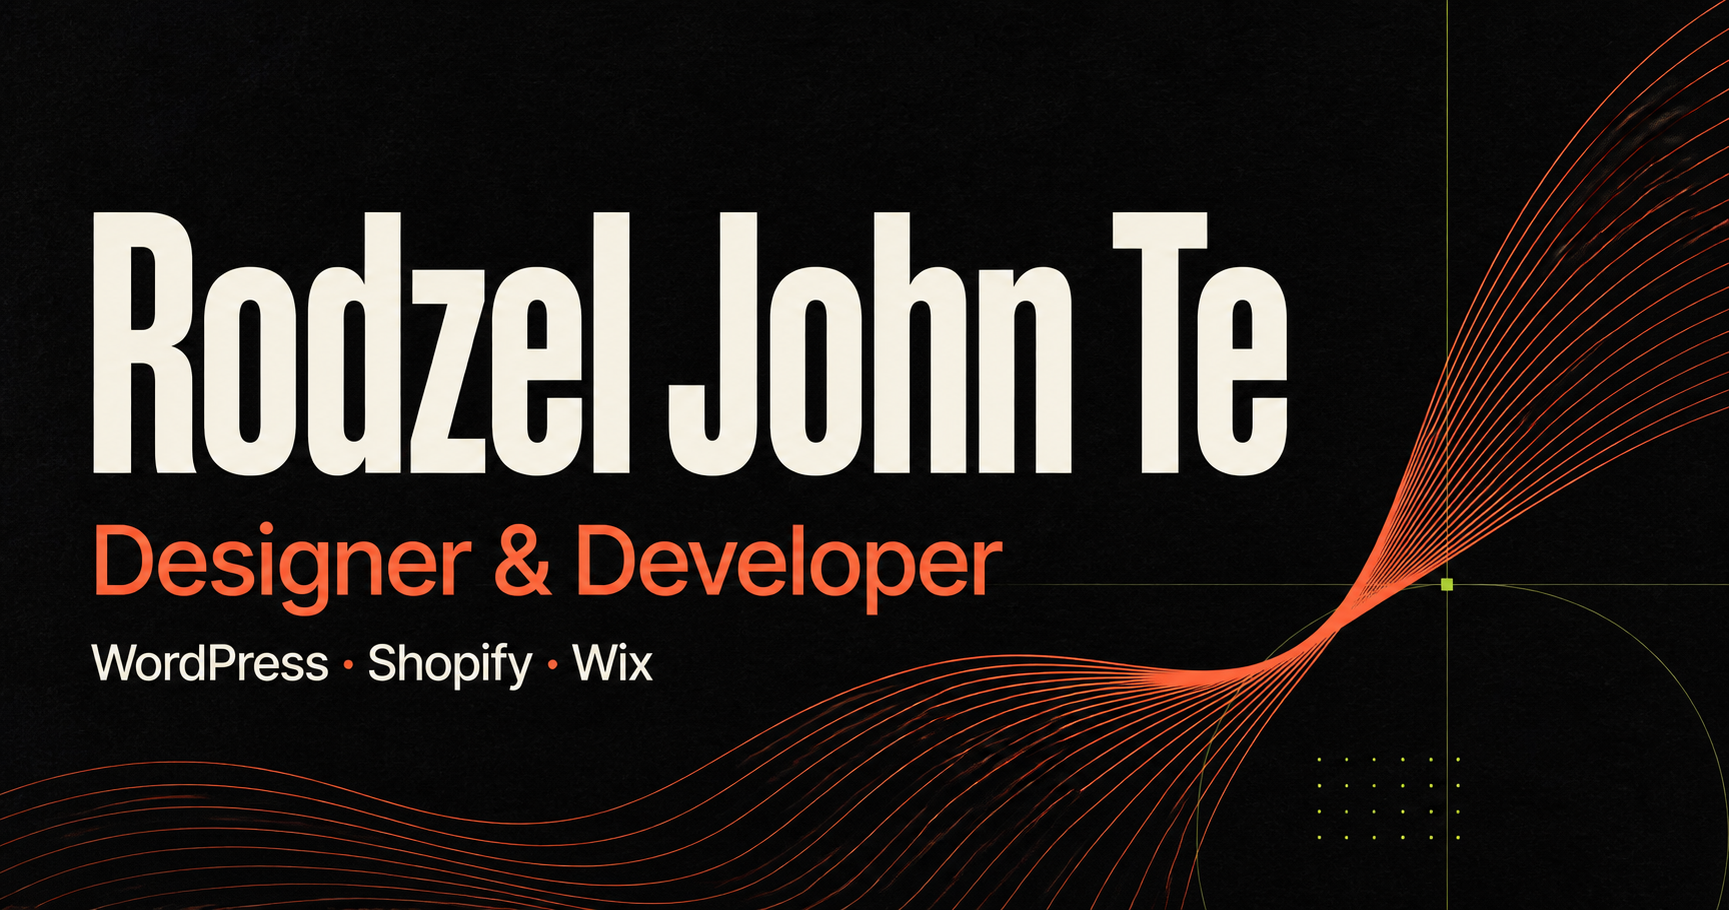
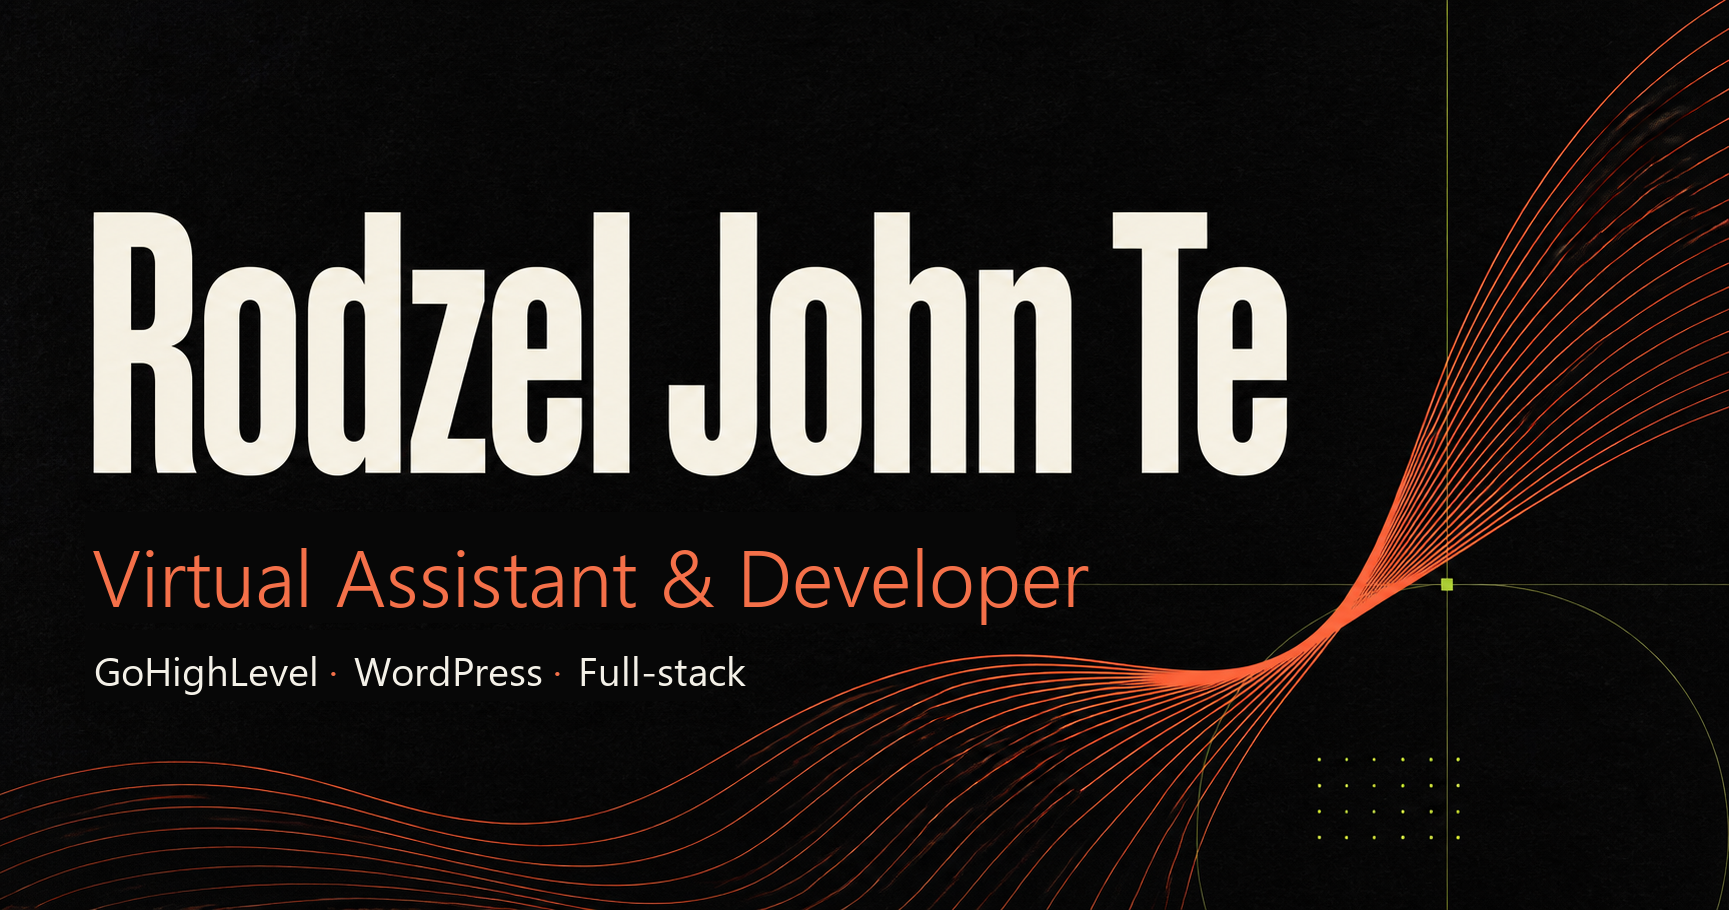
Update services, approach, contact and social preview for VA and full-stack focus

Changed region(s): [[0.0312, 0.5538, 0.6246, 0.6769], [0.0312, 0.7077, 0.4372, 0.7692]]

diff --git a/app/page.tsx b/app/page.tsx
@@ -9,10 +9,9 @@ import {
   ArrowUpRight,
   Code2,
   LayoutTemplate,
-  MonitorSmartphone,
   ScanLine,
-  ShoppingBag,
   Sparkles,
+  Workflow,
   X,
 } from 'lucide-react';
 
@@ -277,9 +276,9 @@ function ProofCard({ proof, index }: { proof: Proof; index: number }) {
 }
 
 const services = [
-  { icon: LayoutTemplate, number: '01', title: 'WordPress', text: 'Flexible, easy-to-manage websites shaped around your brand and business goals.' },
-  { icon: ShoppingBag, number: '02', title: 'Shopify', text: 'Clear, conversion-aware storefronts that make browsing and buying feel effortless.' },
-  { icon: MonitorSmartphone, number: '03', title: 'Wix', text: 'Polished, responsive Wix experiences built for speed, clarity, and easy ownership.' },
+  { icon: Workflow, number: '01', title: 'GoHighLevel', text: 'Workflows, pipelines, appointment booking, invoicing, and Email/SMS follow-ups that run without manual chasing.' },
+  { icon: LayoutTemplate, number: '02', title: 'WordPress', text: 'Websites built, migrated, and maintained on Hostinger, plus CMS deployments with Agency OS and Codex.' },
+  { icon: Code2, number: '03', title: 'Full-stack', text: 'Custom web apps, dashboards, and Discord bots with React, Node.js, TypeScript, Laravel, and Supabase.' },
 ];
 
 export default function Home() {
@@ -341,8 +340,8 @@ export default function Home() {
       <section className="services-section" id="services">
         <div className="services-top">
           <span>03 / What I do</span>
-          <h2>From the first frame<br />to the final click.</h2>
-          <p>I combine visual design and front-end thinking to create sites that look intentional, work smoothly, and stay easy to manage.</p>
+          <h2>From the first lead<br />to the final invoice.</h2>
+          <p>I combine virtual assistance, automation, and development to take repetitive work off your plate and build systems that stay easy to manage.</p>
         </div>
         <div className="service-grid">
           {services.map(({ icon: Icon, number, title, text }) => (
@@ -373,20 +372,21 @@ export default function Home() {
       <section className="process-section">
         <div className="section-heading process-heading"><span>05 / Approach</span><h2>Clear thinking.<br />Clean execution.</h2></div>
         <div className="process-list">
-          <div><span>01</span><strong>Understand</strong><p>Clarify the audience, goals, and the one action the website needs to make easy.</p></div>
-          <div><span>02</span><strong>Shape</strong><p>Build a visual direction and structure that gives every section a reason to exist.</p></div>
-          <div><span>03</span><strong>Build</strong><p>Turn the design into a responsive, polished experience across screen sizes.</p></div>
-          <div><span>04</span><strong>Refine</strong><p>Check the details, strengthen the flow, and prepare the site for a confident launch.</p></div>
+          <div><span>01</span><strong>Understand</strong><p>Map the business, the audience, and the manual tasks slowing the team down.</p></div>
+          <div><span>02</span><strong>Shape</strong><p>Plan the site structure, pipeline stages, and workflow logic before building anything.</p></div>
+          <div><span>03</span><strong>Build</strong><p>Build the website, automation, or app, and test it across devices and edge cases.</p></div>
+          <div><span>04</span><strong>Refine</strong><p>Track the results, fix weak spots, and document everything so it is easy to own.</p></div>
         </div>
       </section>
 
       <section className="contact-section" id="contact">
         <div className="contact-orbit" aria-hidden="true"><Code2 size={42} /></div>
-        <span className="contact-kicker">Have a project in mind?</span>
-        <h2>Let&apos;s make something<br /><em>worth scrolling for.</em></h2>
-        <p>Open to freelance projects, thoughtful redesigns, and collaborations. Reach out through the platform where you found this portfolio.</p>
+        <span className="contact-kicker">Hiring a VA or developer?</span>
+        <h2>Let&apos;s build something<br /><em>that runs itself.</em></h2>
+        <p>Open to Virtual Assistant, GoHighLevel automation, WordPress, and full-stack roles. Reach out through the platform where you found this portfolio, or connect on LinkedIn.</p>
         <div className="contact-actions">
           <a className="contact-link" href="#work">Explore the work <ArrowRight size={20} /></a>
+          <a className="contact-link contact-link-secondary" href="https://www.linkedin.com/in/rodzel-te-188573285" target="_blank" rel="noreferrer">LinkedIn <ArrowUpRight size={20} /></a>
           <a className="contact-link contact-link-secondary" href="https://github.com/rodzelte" target="_blank" rel="noreferrer">View GitHub <ArrowUpRight size={20} /></a>
         </div>
       </section>

diff --git a/app/layout.tsx b/app/layout.tsx
@@ -13,6 +13,7 @@ const geistMono = Geist_Mono({
 });
 
 export const metadata: Metadata = {
+  metadataBase: new URL('https://portfolio-2026-v1-one.vercel.app'),
   title: 'Rodzel John Te — Virtual Assistant & Developer',
   description: 'Portfolio of Rodzel John Te, a Virtual Assistant and full-stack developer specializing in GoHighLevel automation and WordPress.',
   icons: {
@@ -22,7 +23,7 @@ export const metadata: Metadata = {
     title: 'Rodzel John Te — Virtual Assistant & Developer',
     description: 'GoHighLevel automations, WordPress websites, and full-stack web apps, with real proof of work.',
     type: 'website',
-    images: [{ url: '/og.png', width: 1729, height: 910, alt: 'Rodzel John Te — Designer & Developer' }],
+    images: [{ url: '/og.png', width: 1729, height: 910, alt: 'Rodzel John Te — Virtual Assistant & Developer' }],
   },
   twitter: {
     card: 'summary_large_image',
